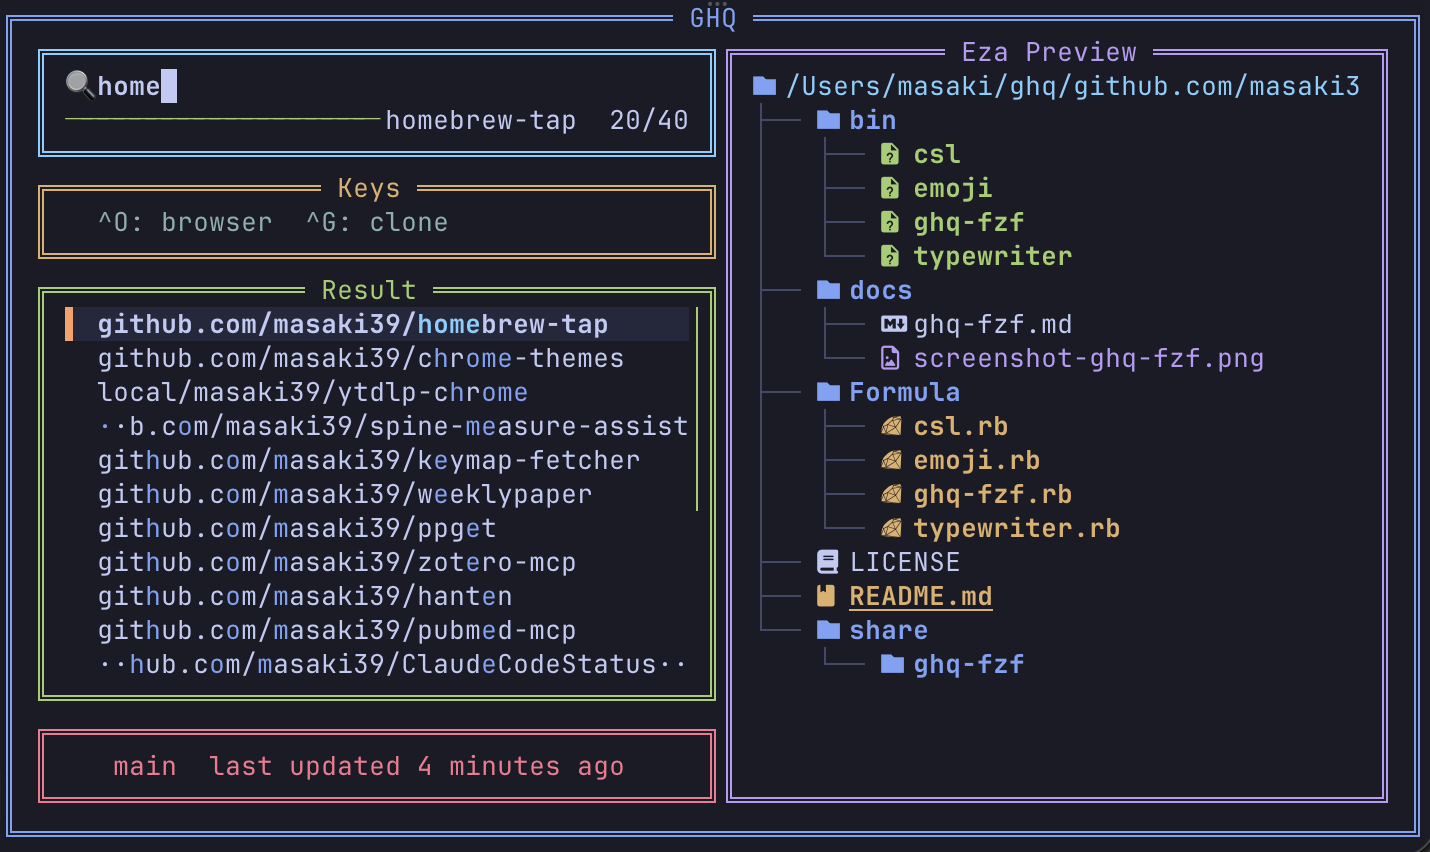
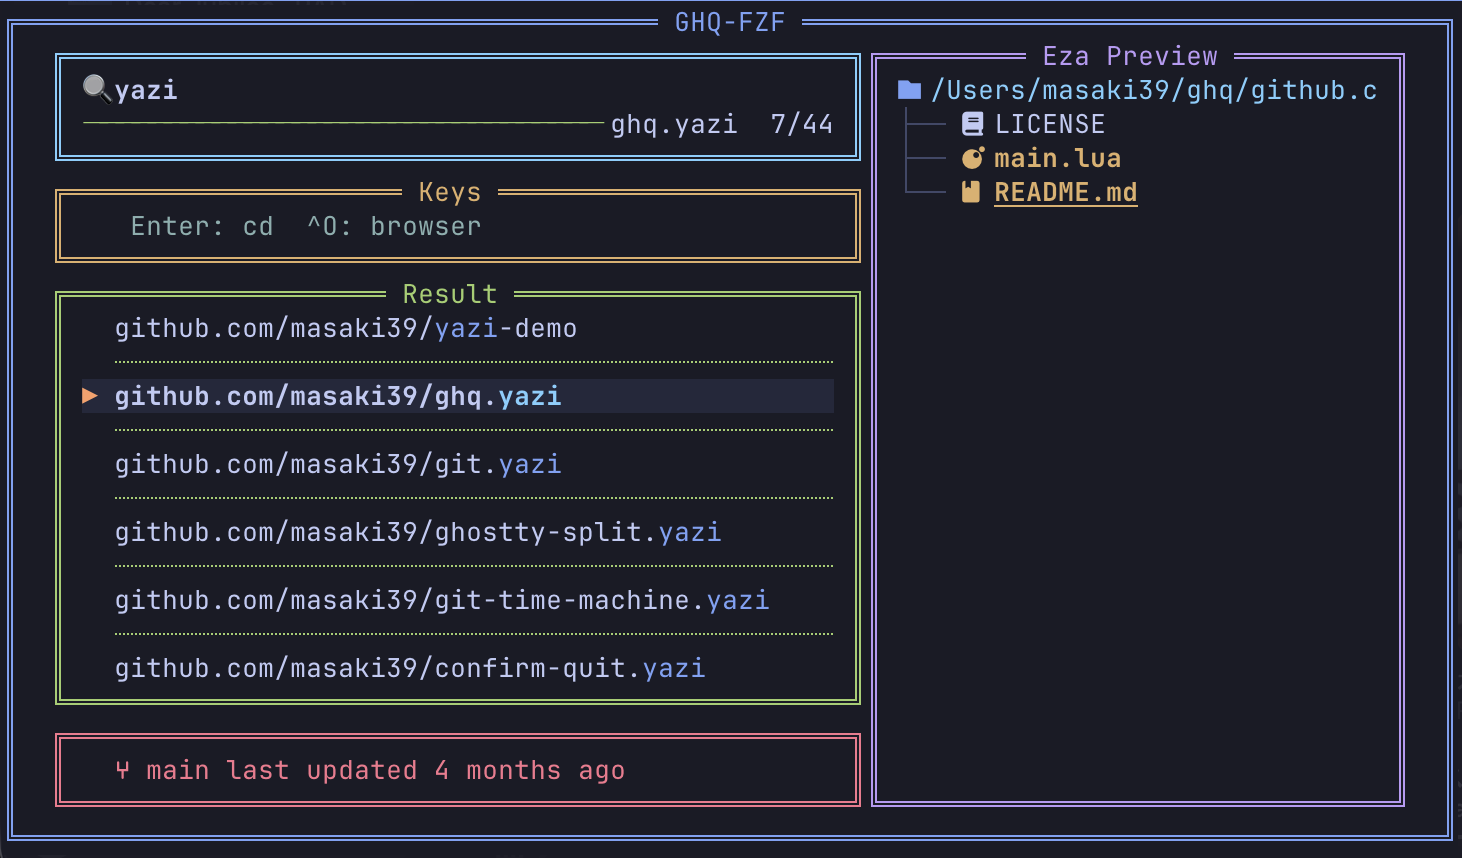
feat: Refine README and enhance GHQ-FZF interface for usability

Changed region(s): [[0.0, 0.0, 1.0, 1.0]]

diff --git a/README.md b/README.md
@@ -15,9 +15,7 @@ Install once and use your own command name — no extra configuration needed.
 - 🕐 **Sorted by recently used** (most recently committed repo appears first)
 - 🌲 **File tree preview** via `eza`
 - 🌿 **Branch name + last updated** shown in the footer on focus
-- 📝 **Open in editor** with `Ctrl-E` (uses `$EDITOR`)
 - 🌐 **Open in browser** with `Ctrl-O` (uses `gh`)
-- 📥 **Clone a new repository** with `Ctrl-G` (`ghq get`) and `cd` into it
 - 🎨 **Tokyo Night color theme** out of the box
 
 ## 📦 Requirements
@@ -69,9 +67,7 @@ Type your command name (e.g. `gv`) to open the picker and `cd` into the selected
 | Key | Action |
 |-----|--------|
 | `Enter` | `cd` into the selected repository |
-| `Ctrl-E` | Open the repository in `$EDITOR` |
 | `Ctrl-O` | Open the repository in your browser |
-| `Ctrl-G` | Clone a new repository (`ghq get`) and `cd` into it |
 | `Esc` / `Ctrl-C` | Close without changing directory |
 
 ## ⚙️ Customization